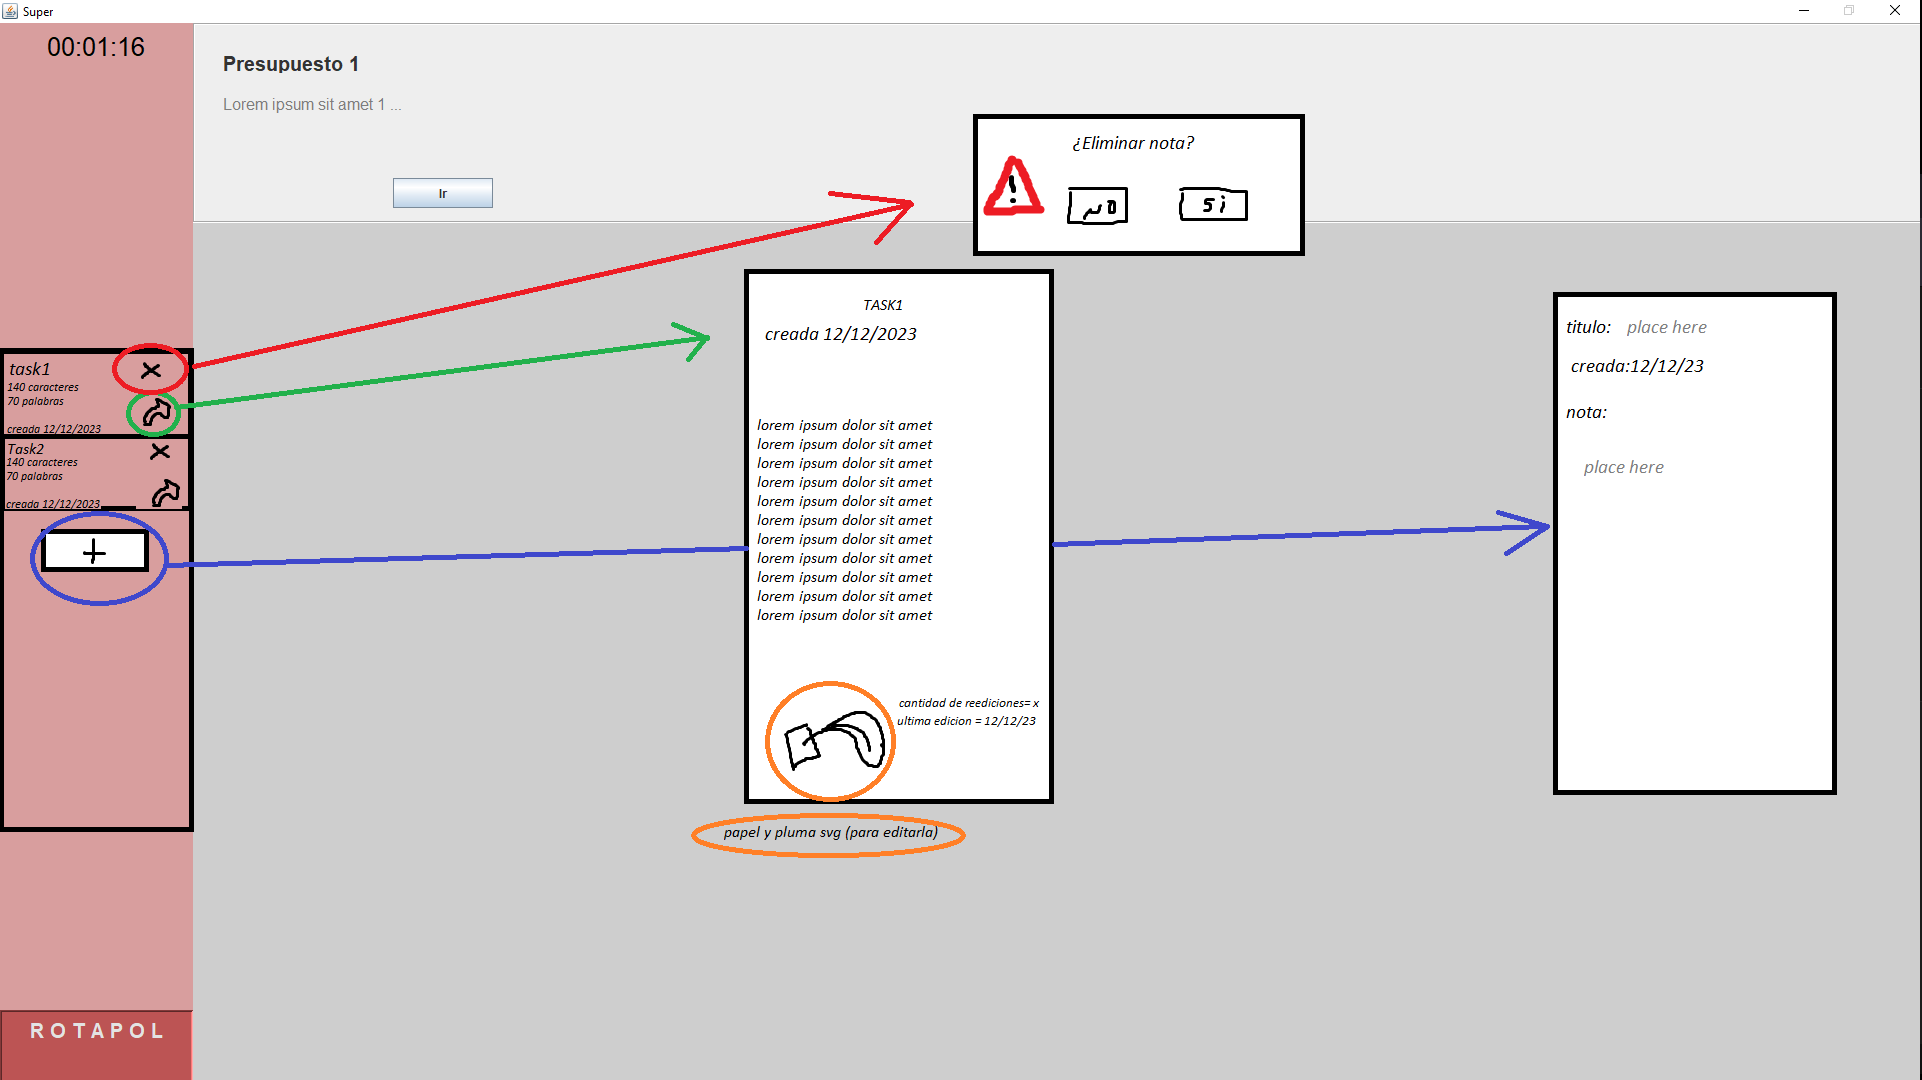
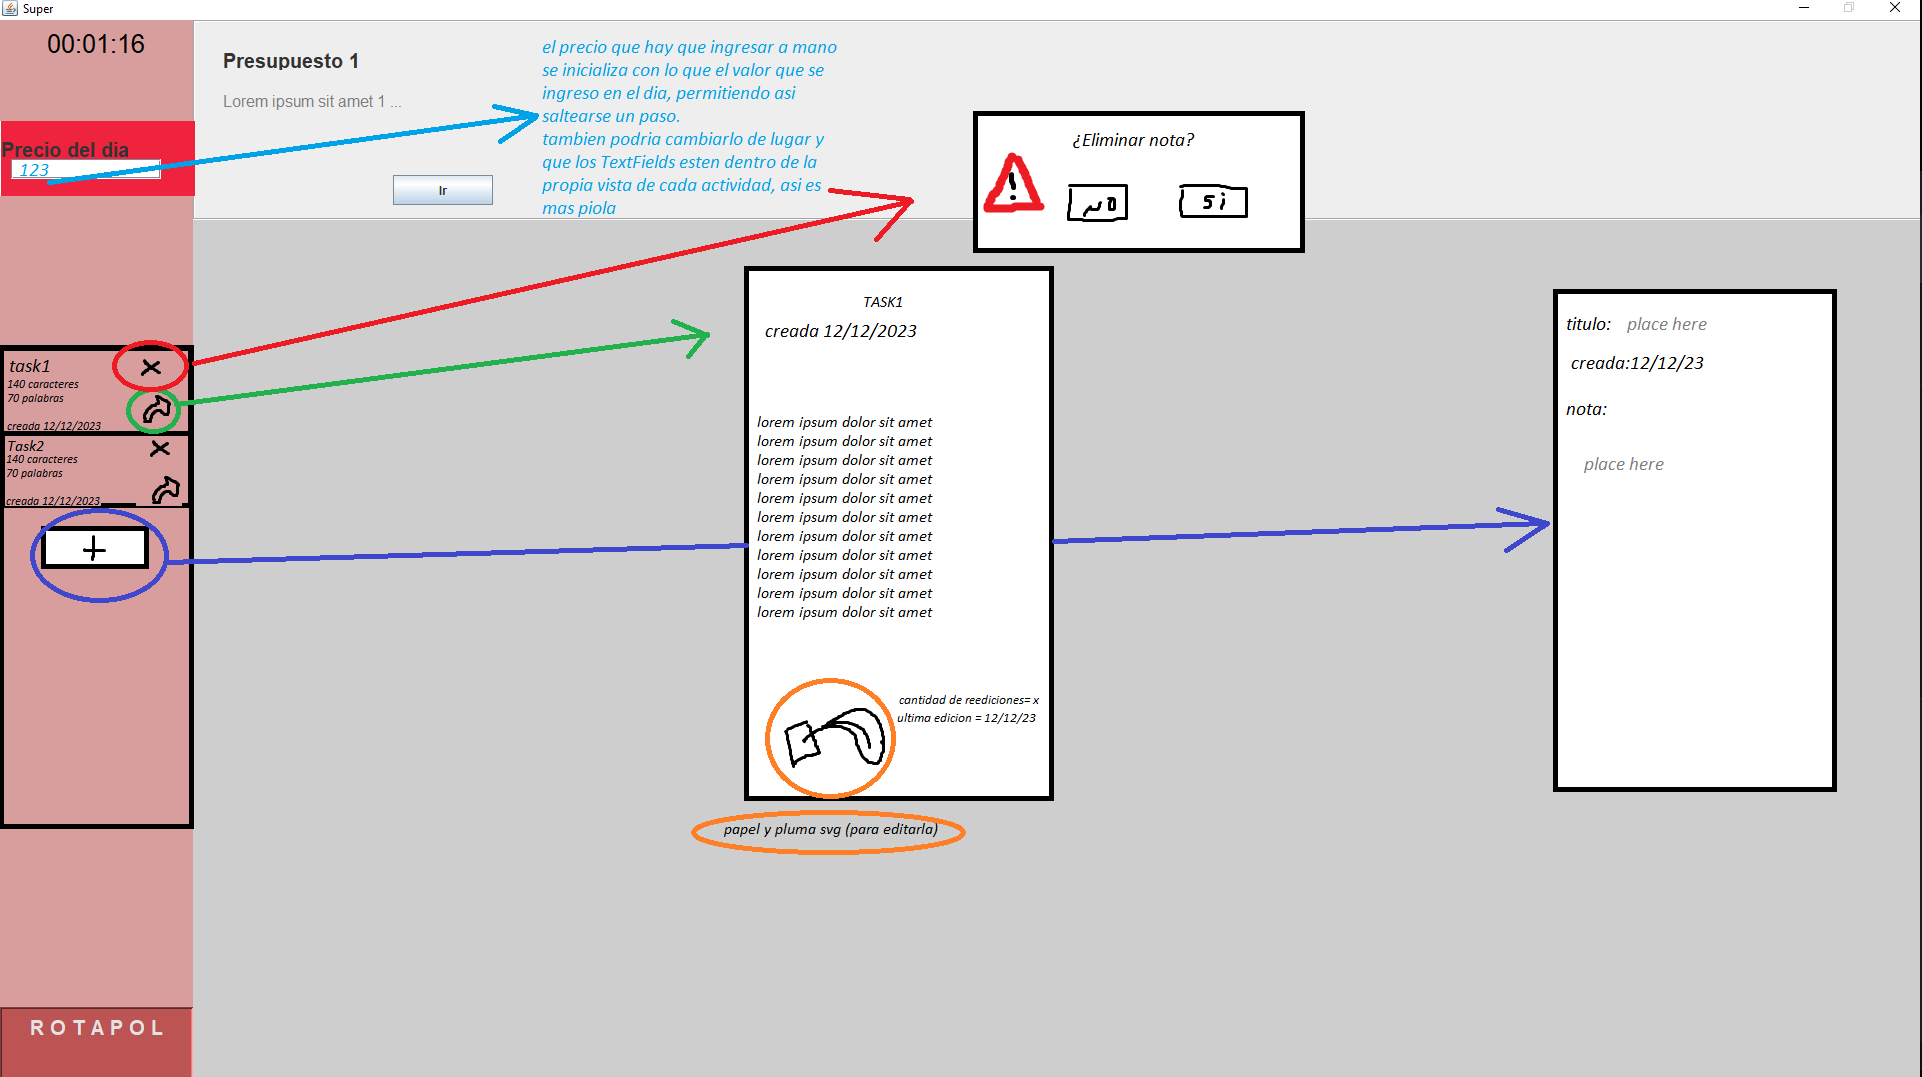
un poco

diff --git a/Actividades/Manager.java b/Actividades/Manager.java
@@ -7,11 +7,13 @@ import javax.swing.BorderFactory;
 import javax.swing.JButton;
 import javax.swing.JLabel;
 import javax.swing.JPanel;
+import javax.swing.JTextField;
 import javax.swing.SwingConstants;
 import javax.swing.border.Border;
 import javax.swing.border.EtchedBorder;
 
 import Recursos.DateLabel;
+import Recursos.TextField;
 
 //import javafx.*; Ver despues
 //https://docs.oracle.com/javase/8/javafx/layout-tutorial/builtin_layouts.htm
@@ -125,6 +127,20 @@ public class Manager extends SuperActividades{
         colIzq.setVisible(true);
         colIzq.setBounds(0,0,this.getWidth()/8, this.getHeight());
         colIzq.setBackground(Color.decode("#ef233e"));
+        
+        JLabel precioDelDIa = new JLabel();
+        precioDelDIa.setVisible(true);
+        precioDelDIa.setText("Precio del dia");
+        precioDelDIa.setBounds(0,100,this.getWidth(),20);
+        precioDelDIa.setFont(new Font("LINUX", Font.BOLD, 20));
+/*         precioDelDIa.setHorizontalAlignment(SwingConstants.CENTER);
+        precioDelDIa.setVerticalAlignment(SwingConstants.CENTER); */
+        colIzq.add(precioDelDIa);
+
+        JTextField precioDelDiaTxf = new JTextField();
+        precioDelDiaTxf.setBounds(10,120,150,20);
+        colIzq.add(precioDelDiaTxf);
+        
 
         JPanel tasks = new JPanel();
 
